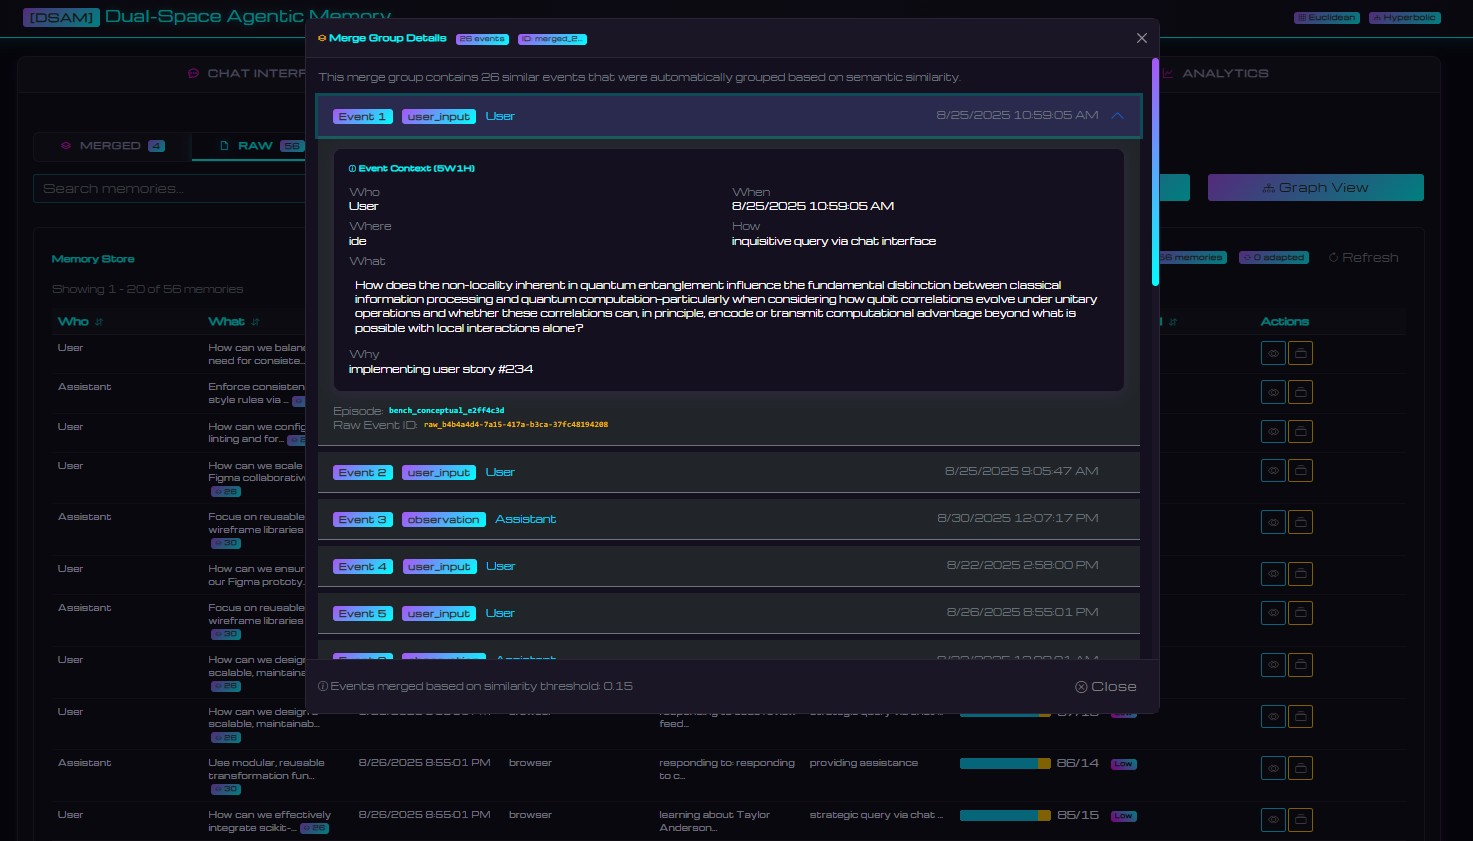
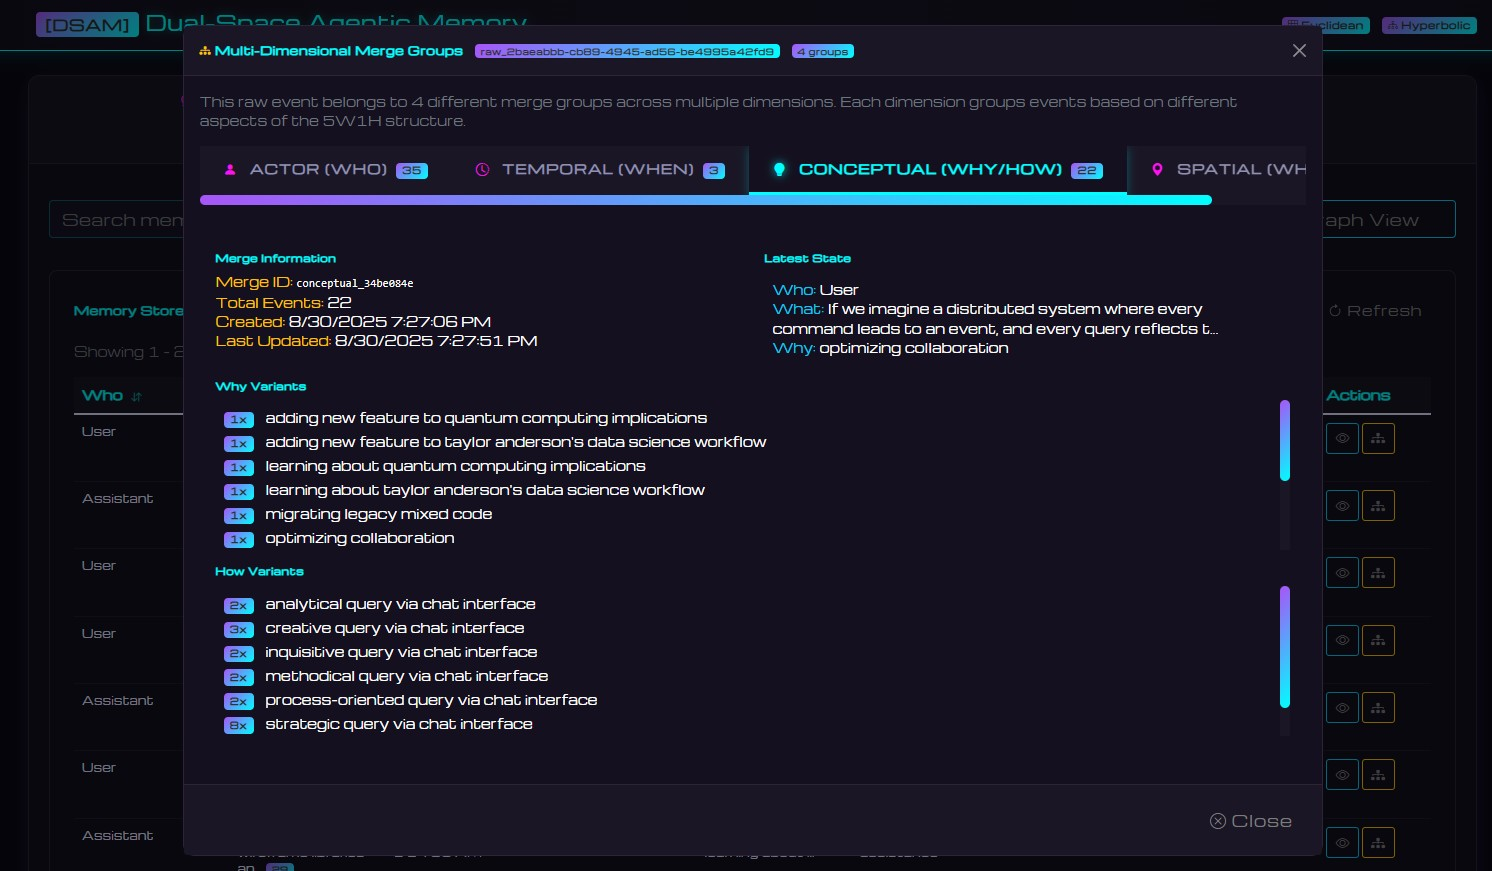
replaced standard merge group with md groups

diff --git a/static/js/app.js b/static/js/app.js
@@ -687,9 +687,9 @@ function createMemoryRow(memory, includeAll = false) {
                     <i class="bi bi-diagram-3"></i>
                 </button>` : ''
             }
-            ${memory.type === 'raw' && memory.merged_id ? 
-                `<button class="btn btn-sm btn-outline-warning" onclick="window.showMergeGroup('${memory.merged_id}')" title="Show Merge Group">
-                    <i class="bi bi-collection"></i>
+            ${memory.type === 'raw' ? 
+                `<button class="btn btn-sm btn-outline-warning" onclick="window.showMergeGroup('${memory.id}')" title="Show Multi-Dimensional Merge Groups">
+                    <i class="bi bi-diagram-3-fill"></i>
                 </button>` : 
                 `<button class="btn btn-sm btn-outline-danger" onclick="window.deleteMemory('${memory.id}')" title="Delete">
                     <i class="bi bi-trash"></i>
@@ -1930,8 +1930,224 @@ function updateExpectedSpaceUsage() {
     }
 }
 
+// Function to show multi-dimensional merge groups for a raw event
+async function showRawEventMergeGroups(eventId) {
+    try {
+        const response = await fetch(`/api/raw-event/${eventId}/merge-groups`);
+        const data = await response.json();
+        
+        const mergeTypes = ['actor', 'temporal', 'conceptual', 'spatial'];
+        const mergeTypeLabels = {
+            'actor': { label: 'Actor (WHO)', icon: 'person-fill', color: 'primary' },
+            'temporal': { label: 'Temporal (WHEN)', icon: 'clock-history', color: 'success' },
+            'conceptual': { label: 'Conceptual (WHY/HOW)', icon: 'lightbulb-fill', color: 'warning' },
+            'spatial': { label: 'Spatial (WHERE)', icon: 'geo-alt-fill', color: 'info' }
+        };
+        
+        // Create tabs for each merge dimension - use flex-nowrap to keep them on one row
+        let tabsHtml = '<ul class="nav nav-tabs flex-nowrap" id="mergeGroupTabs" role="tablist" style="overflow-x: auto; white-space: nowrap;">';
+        let contentHtml = '<div class="tab-content mt-3" id="mergeGroupTabContent">';
+        
+        mergeTypes.forEach((type, index) => {
+            const isActive = index === 0;
+            const groupData = data.multi_dimensional_groups[type];
+            const hasData = groupData && groupData.merge_id;
+            const tabClass = hasData ? '' : 'disabled';
+            const badge = hasData ? `<span class="badge bg-secondary ms-1">${groupData.merge_count}</span>` : '';
+            
+            tabsHtml += `
+                <li class="nav-item flex-shrink-0" role="presentation">
+                    <button class="nav-link ${isActive ? 'active' : ''} ${tabClass}" 
+                            id="${type}-tab" 
+                            data-bs-toggle="tab" 
+                            data-bs-target="#${type}-panel" 
+                            type="button" 
+                            role="tab"
+                            style="white-space: nowrap;"
+                            ${!hasData ? 'disabled' : ''}>
+                        <i class="bi bi-${mergeTypeLabels[type].icon}"></i> 
+                        <span class="d-none d-md-inline">${mergeTypeLabels[type].label}</span>
+                        <span class="d-inline d-md-none">${type.charAt(0).toUpperCase() + type.slice(1)}</span>
+                        ${badge}
+                    </button>
+                </li>
+            `;
+            
+            if (hasData) {
+                contentHtml += `
+                    <div class="tab-pane fade ${isActive ? 'show active' : ''}" 
+                         id="${type}-panel" 
+                         role="tabpanel" 
+                         aria-labelledby="${type}-tab">
+                        ${renderMergeGroupContent(groupData, type)}
+                    </div>
+                `;
+            } else {
+                contentHtml += `
+                    <div class="tab-pane fade ${isActive ? 'show active' : ''}" 
+                         id="${type}-panel" 
+                         role="tabpanel" 
+                         aria-labelledby="${type}-tab">
+                        <div class="text-center text-muted p-4">
+                            <i class="bi bi-${mergeTypeLabels[type].icon} fs-1"></i>
+                            <p class="mt-2">This event is not part of any ${type} merge group</p>
+                        </div>
+                    </div>
+                `;
+            }
+        });
+        
+        tabsHtml += '</ul>';
+        contentHtml += '</div>';
+        
+        // Create modal
+        const modalHtml = `
+            <div class="modal fade" id="rawEventMergeGroupsModal" tabindex="-1">
+                <div class="modal-dialog modal-xl">
+                    <div class="modal-content bg-dark border-cyan">
+                        <div class="modal-header border-cyan">
+                            <h5 class="modal-title text-cyan">
+                                <i class="bi bi-diagram-3-fill text-warning"></i> Multi-Dimensional Merge Groups
+                                <span class="badge bg-purple ms-2">${eventId}</span>
+                                <span class="badge bg-info ms-2">${data.total_groups} groups</span>
+                            </h5>
+                            <button type="button" class="btn-close btn-close-white" data-bs-dismiss="modal"></button>
+                        </div>
+                        <div class="modal-body">
+                            <div class="mb-3">
+                                <small class="text-muted">
+                                    This raw event belongs to ${data.total_groups} different merge groups across multiple dimensions.
+                                    Each dimension groups events based on different aspects of the 5W1H structure.
+                                </small>
+                            </div>
+                            ${tabsHtml}
+                            ${contentHtml}
+                        </div>
+                        <div class="modal-footer border-cyan">
+                            <button type="button" class="btn btn-outline-cyan" data-bs-dismiss="modal">
+                                <i class="bi bi-x-circle"></i> Close
+                            </button>
+                        </div>
+                    </div>
+                </div>
+            </div>
+        `;
+        
+        // Remove existing modal if any
+        const existingModal = document.getElementById('rawEventMergeGroupsModal');
+        if (existingModal) {
+            existingModal.remove();
+        }
+        
+        // Add modal to body
+        document.body.insertAdjacentHTML('beforeend', modalHtml);
+        
+        // Show modal
+        const modal = new bootstrap.Modal(document.getElementById('rawEventMergeGroupsModal'));
+        modal.show();
+        
+    } catch (error) {
+        console.error('Error loading raw event merge groups:', error);
+        alert('Failed to load merge group details');
+    }
+}
+
+// Helper function to render merge group content
+function renderMergeGroupContent(groupData, type) {
+    let html = `
+        <div class="p-3">
+            <div class="row mb-3">
+                <div class="col-md-6">
+                    <h6 class="text-cyan">Merge Information</h6>
+                    <div class="small">
+                        <div><span class="text-warning">Merge ID:</span> <code class="text-white">${groupData.merge_id}</code></div>
+                        <div><span class="text-warning">Total Events:</span> <span class="text-white">${groupData.merge_count}</span></div>
+                        <div><span class="text-warning">Created:</span> <span class="text-white">${formatDate(groupData.created_at)}</span></div>
+                        <div><span class="text-warning">Last Updated:</span> <span class="text-white">${formatDate(groupData.last_updated)}</span></div>
+                    </div>
+                </div>
+                <div class="col-md-6">
+                    <h6 class="text-cyan">Latest State</h6>
+                    <div class="small bg-darker p-2 rounded">
+                        ${groupData.latest_state ? `
+                            <div><span class="text-info">Who:</span> <span class="text-white">${escapeHtml(groupData.latest_state.who || '—')}</span></div>
+                            <div><span class="text-info">What:</span> <span class="text-white">${escapeHtml((groupData.latest_state.what || '—').substring(0, 100))}...</span></div>
+                            <div><span class="text-info">Why:</span> <span class="text-white">${escapeHtml(groupData.latest_state.why || '—')}</span></div>
+                        ` : '<em>No state available</em>'}
+                    </div>
+                </div>
+            </div>
+    `;
+    
+    // Show variants based on merge type
+    if (type === 'actor' && groupData.who_variants && Object.keys(groupData.who_variants).length > 0) {
+        html += renderVariants('Who Variants', groupData.who_variants);
+    }
+    
+    if (type === 'temporal' && groupData.when_timeline && groupData.when_timeline.length > 0) {
+        html += `
+            <div class="mb-3">
+                <h6 class="text-cyan">Timeline</h6>
+                <div class="timeline small bg-darker p-2 rounded" style="max-height: 200px; overflow-y: auto;">
+        `;
+        groupData.when_timeline.forEach(point => {
+            html += `
+                <div class="mb-2">
+                    <span class="badge bg-secondary me-2">${formatDate(point.timestamp)}</span>
+                    ${escapeHtml(point.description || '')}
+                </div>
+            `;
+        });
+        html += '</div></div>';
+    }
+    
+    if (type === 'conceptual') {
+        if (groupData.why_variants && Object.keys(groupData.why_variants).length > 0) {
+            html += renderVariants('Why Variants', groupData.why_variants);
+        }
+        if (groupData.how_variants && Object.keys(groupData.how_variants).length > 0) {
+            html += renderVariants('How Variants', groupData.how_variants);
+        }
+    }
+    
+    if (type === 'spatial' && groupData.where_locations && Object.keys(groupData.where_locations).length > 0) {
+        html += renderVariants('Where Variants', groupData.where_locations);
+    }
+    
+    // Removed 'Other Events in This Group' section as requested
+    
+    html += '</div>';
+    return html;
+}
+
+// Helper function to render variants
+function renderVariants(title, variants) {
+    let html = `
+        <div class="mb-3">
+            <h6 class="text-cyan">${title}</h6>
+            <div class="small bg-darker p-2 rounded" style="max-height: 150px; overflow-y: auto;">
+    `;
+    
+    for (const [variant, count] of Object.entries(variants)) {
+        html += `
+            <div class="mb-1">
+                <span class="badge bg-secondary me-2">${count}x</span>
+                <span class="text-white">${escapeHtml(variant)}</span>
+            </div>
+        `;
+    }
+    
+    html += '</div></div>';
+    return html;
+}
+
 window.showMergeGroup = async function(mergedId) {
     try {
+        // Check if this is a raw event ID - if so, show multi-dimensional groups
+        if (mergedId.startsWith('raw_')) {
+            return showRawEventMergeGroups(mergedId);
+        }
+        
         const response = await fetch(`/api/memory/${mergedId}/raw`);
         const data = await response.json();
         
@@ -2597,7 +2813,7 @@ function createMergedOverviewTab(mergedEvent, latest) {
                         <tbody>
                             ${createComponentRows('WHO - Actors', mergedEvent.who_variants)}
                             ${createComponentRows('WHAT - Actions', mergedEvent.what_variants)}
-                            ${createComponentRows('WHERE - Locations', mergedEvent.where_variants || (mergedEvent.where_locations ? {'locations': Object.entries(mergedEvent.where_locations).map(([loc, count]) => ({value: loc, timestamp: new Date()}))} : {}))}
+                            ${createComponentRows('WHERE - Locations', mergedEvent.where_locations || (mergedEvent.where_locations ? {'locations': Object.entries(mergedEvent.where_locations).map(([loc, count]) => ({value: loc, timestamp: new Date()}))} : {}))}
                             ${createComponentRows('WHY - Reasons', mergedEvent.why_variants)}
                             ${createComponentRows('HOW - Methods', mergedEvent.how_variants || (mergedEvent.how_methods ? {'methods': Object.entries(mergedEvent.how_methods).map(([method, count]) => ({value: method, timestamp: new Date()}))} : {}))}
                         </tbody>

diff --git a/web_app.py b/web_app.py
@@ -385,6 +385,43 @@ def get_memory_merge_groups(memory_id):
         logger.error(f"Error getting merge groups for memory: {e}")
         return jsonify({'error': str(e)}), 500
 
+@app.route('/api/raw-event/<event_id>/merge-groups', methods=['GET'])
+def get_raw_event_merge_groups(event_id):
+    """Get all multi-dimensional merge groups a raw event belongs to"""
+    try:
+        # Get merge groups from the multi-dimensional merger
+        if hasattr(memory_agent.memory_store, 'multi_merger') and memory_agent.memory_store.multi_merger:
+            merge_groups = memory_agent.memory_store.multi_merger.get_merge_groups_details_for_event(event_id)
+            
+            # Add standard merge group if exists (for backwards compatibility)
+            merged_id = None
+            if event_id.startswith('raw_'):
+                base_id = event_id.replace('raw_', '')
+                if base_id in memory_agent.memory_store.raw_to_merged:
+                    merged_id = memory_agent.memory_store.raw_to_merged[base_id]
+                elif event_id in memory_agent.memory_store.raw_to_merged:
+                    merged_id = memory_agent.memory_store.raw_to_merged[event_id]
+            
+            return jsonify({
+                'event_id': event_id,
+                'multi_dimensional_groups': merge_groups,
+                'standard_merged_id': merged_id,
+                'total_groups': len(merge_groups)
+            })
+        else:
+            return jsonify({
+                'event_id': event_id,
+                'multi_dimensional_groups': {},
+                'standard_merged_id': None,
+                'total_groups': 0
+            })
+            
+    except Exception as e:
+        logger.error(f"Error getting merge groups for raw event {event_id}: {e}")
+        import traceback
+        logger.error(traceback.format_exc())
+        return jsonify({'error': str(e)}), 500
+
 @app.route('/api/memory/<memory_id>/raw', methods=['GET'])
 def get_memory_raw_events(memory_id):
     """Get all raw events for a merged memory"""
@@ -650,7 +687,7 @@ def get_multi_merge_details(merge_type, merge_id):
             'who_variants': {},
             'what_variants': {},
             'when_variants': {},
-            'where_variants': {},
+            'where_locations': {},
             'why_variants': {},
             'how_variants': {},
             
@@ -702,7 +739,7 @@ def get_multi_merge_details(merge_type, merge_id):
         
         # Format WHERE locations (different structure)
         if hasattr(merged_event, 'where_locations') and merged_event.where_locations:
-            response['where_variants']['locations'] = [
+            response['where_locations']['locations'] = [
                 {
                     'value': location,
                     'timestamp': datetime.utcnow().isoformat(),
@@ -751,8 +788,8 @@ def get_multi_merge_details(merge_type, merge_id):
         
         # Determine the primary context/location
         locations = set()
-        if hasattr(merged_event, 'where_variants'):
-            for variants in merged_event.where_variants.values():
+        if hasattr(merged_event, 'where_locations'):
+            for variants in merged_event.where_locations.values():
                 for v in variants:
                     locations.add(v.value)
         elif hasattr(merged_event, 'where_locations'):

diff --git a/memory/multi_dimensional_merger.py b/memory/multi_dimensional_merger.py
@@ -552,6 +552,60 @@ class MultiDimensionalMerger:
         
         return merges
     
+    def get_merge_groups_details_for_event(self, event_id: str) -> Dict[str, Dict]:
+        """
+        Get detailed information about all merge groups a raw event belongs to.
+        
+        Args:
+            event_id: ID of the raw event (can be with or without 'raw_' prefix)
+            
+        Returns:
+            Dictionary mapping merge type strings to group details
+        """
+        # Handle both raw_XXX and XXX formats
+        raw_event_id = event_id if event_id.startswith('raw_') else f"raw_{event_id}"
+        alt_event_id = event_id.replace('raw_', '') if event_id.startswith('raw_') else event_id
+        
+        details = {}
+        
+        # Try both IDs
+        for test_id in [raw_event_id, alt_event_id, event_id]:
+            merge_groups = self.tracker.get_merge_groups_for_raw(test_id)
+            
+            for merge_type, merge_id in merge_groups:
+                if merge_type in self.merge_groups and merge_id in self.merge_groups[merge_type]:
+                    group = self.merge_groups[merge_type][merge_id]
+                    merged_event = group.get('merged_event')
+                    
+                    if merged_event:
+                        # Get all raw events in this merge group
+                        raw_events_in_group = list(merged_event.raw_event_ids)
+                        
+                        details[merge_type.value] = {
+                            'merge_id': merge_id,
+                            'merge_type': merge_type.value,
+                            'merge_count': merged_event.merge_count,
+                            'raw_event_ids': raw_events_in_group,
+                            'latest_state': merged_event.get_latest_state() if hasattr(merged_event, 'get_latest_state') else {},
+                            'who_variants': {k: len(v) for k, v in merged_event.who_variants.items()},
+                            'what_variants': {k: len(v) for k, v in merged_event.what_variants.items()},
+                            'when_timeline': [
+                                {'timestamp': tp.timestamp.isoformat(), 'description': tp.description}
+                                for tp in merged_event.when_timeline
+                            ],
+                            'where_locations': merged_event.where_locations if hasattr(merged_event, 'where_locations') else {},
+                            'why_variants': {k: len(v) for k, v in merged_event.why_variants.items()},
+                            'how_variants': merged_event.how_methods if hasattr(merged_event, 'how_methods') else {},
+                            'created_at': group.get('created_at', datetime.utcnow()).isoformat() if 'created_at' in group else '',
+                            'last_updated': group.get('last_updated', datetime.utcnow()).isoformat() if 'last_updated' in group else ''
+                        }
+            
+            # If we found any groups, don't continue checking other IDs
+            if details:
+                break
+        
+        return details
+    
     def get_all_merge_groups(self) -> Dict[str, Dict]:
         """
         Get all merge groups across all dimensions.

diff --git a/README.md b/README.md
@@ -407,5 +407,4 @@ python clear_memories.py
 ## TODO:
   * Update chat interface to get merge groups instead of raw
   * Memory block graph terminal context vectors/pointers
-  * Consolidate `.js` files
   * Consolidate data model modules
